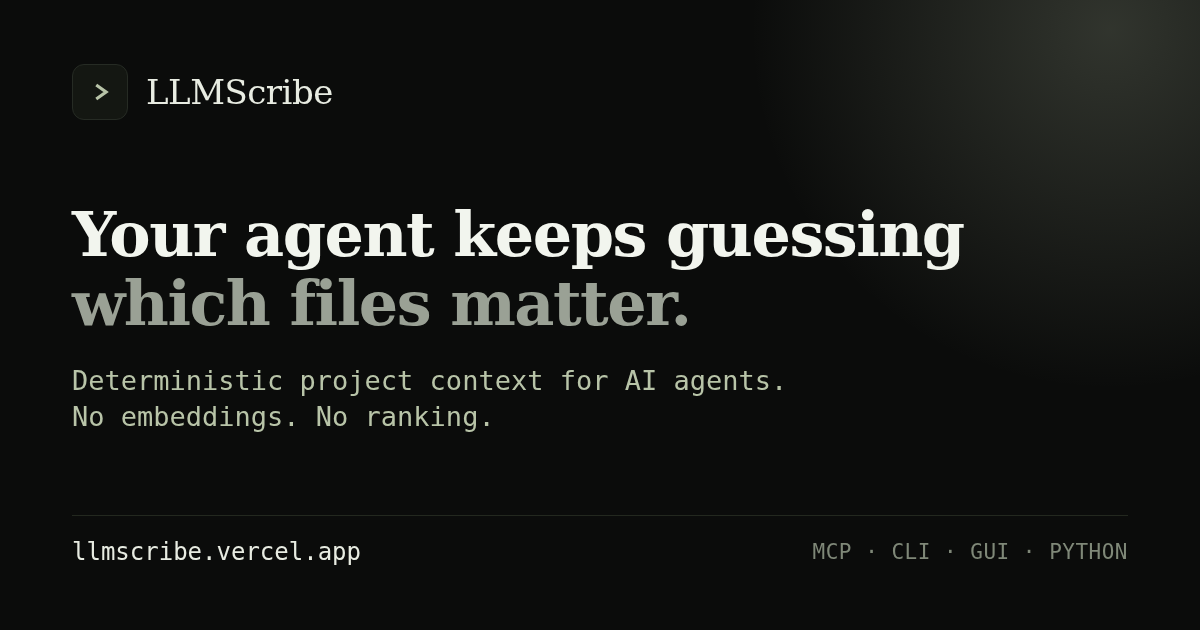
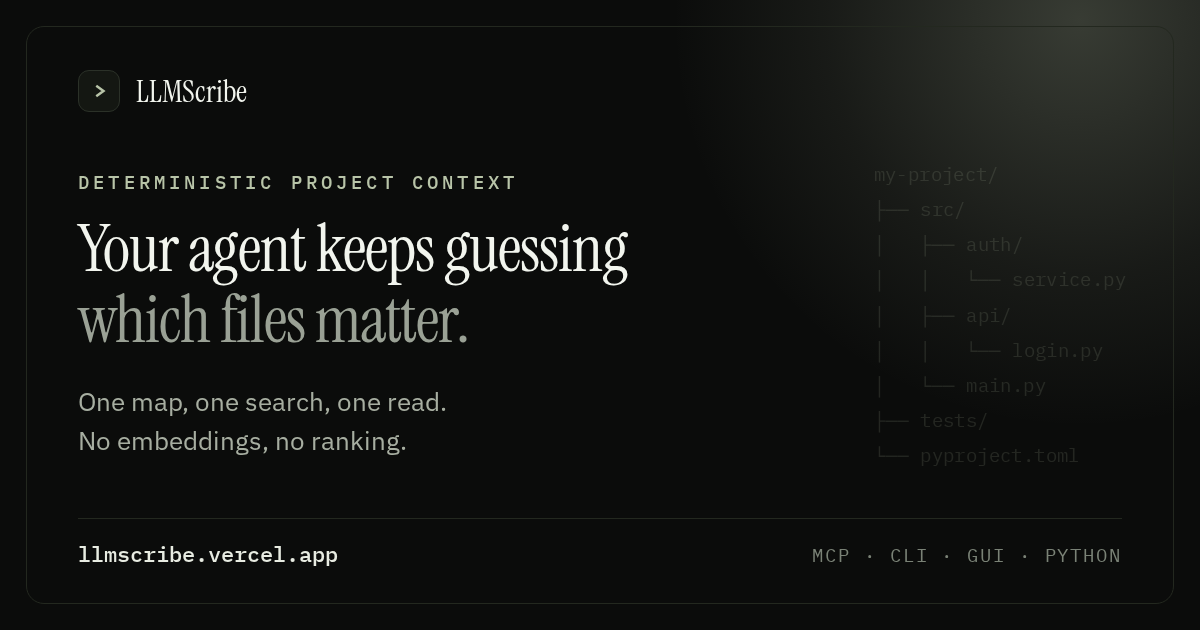
docs: redesign the OG card with the brand type and a project-tree motif
Rebuilds og.png in the site's own voice instead of a generic dark card:

- uses the real brand faces (Instrument Serif for the wordmark and headline,
  IBM Plex Mono for the eyebrow and footer) rather than fallback DejaVu
- framed-card composition echoing the site's bordered components, with the
  eyebrow/headline/supporting-line hierarchy the site uses
- a faint project-tree motif on the right, which is literally the tool's output
- designed to the standard OG constraints: 1200x630, content inside the safe
  area, three text levels, dark background, and every text colour at WCAG AA
- og:image gains ?v=2 so X and other crawlers refetch instead of serving the
  previously cached blank image

diff --git a/docs/src/routes/__root.tsx b/docs/src/routes/__root.tsx
@@ -7,7 +7,7 @@ const APP_NAME = "LLMScribe";
 const DESCRIPTION =
   "Turn a local project into clean, deterministic, structured context. Open-source Python CLI, MCP server, and GUI — published on PyPI. Runs entirely on your machine.";
 const SITE_URL = "https://llmscribe.vercel.app";
-const OG_IMAGE = `${SITE_URL}/og.png`;
+const OG_IMAGE = `${SITE_URL}/og.png?v=2`;
 const TAGLINE = `${APP_NAME} — one file, the whole project`;
 
 const structuredData = {
